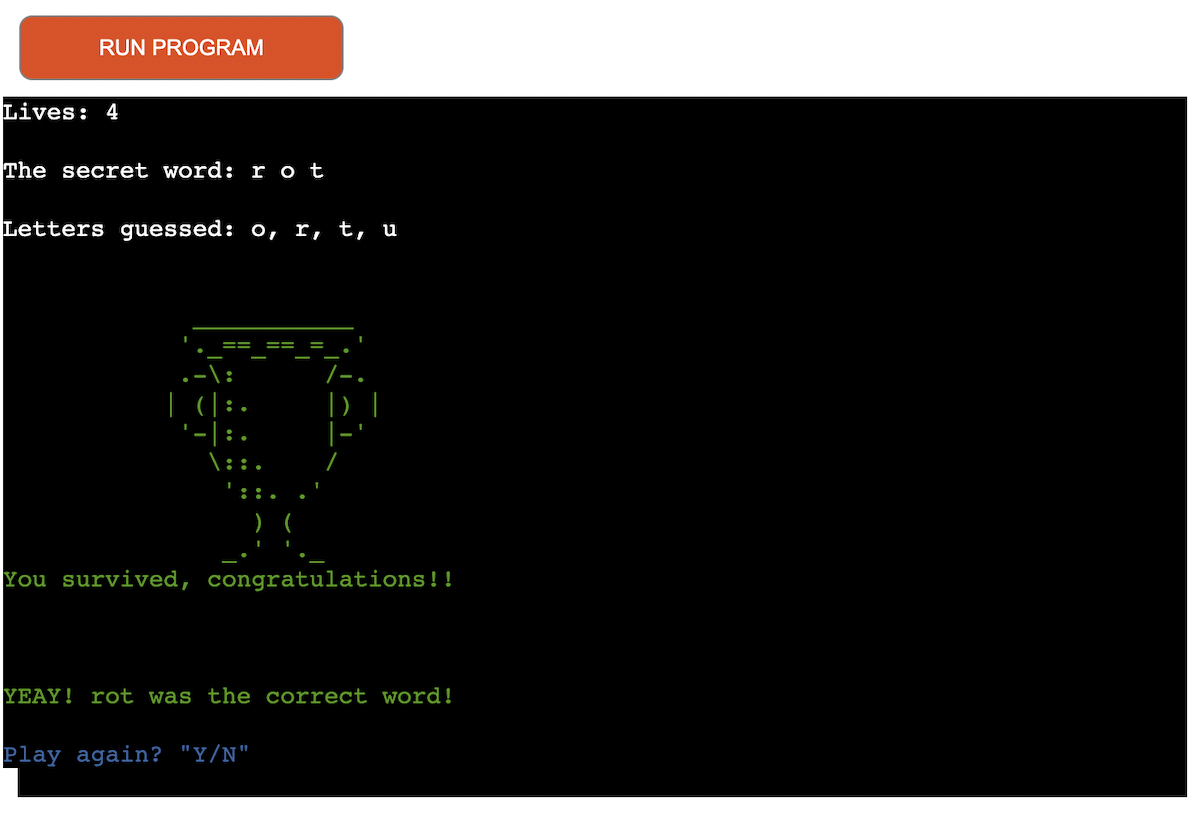
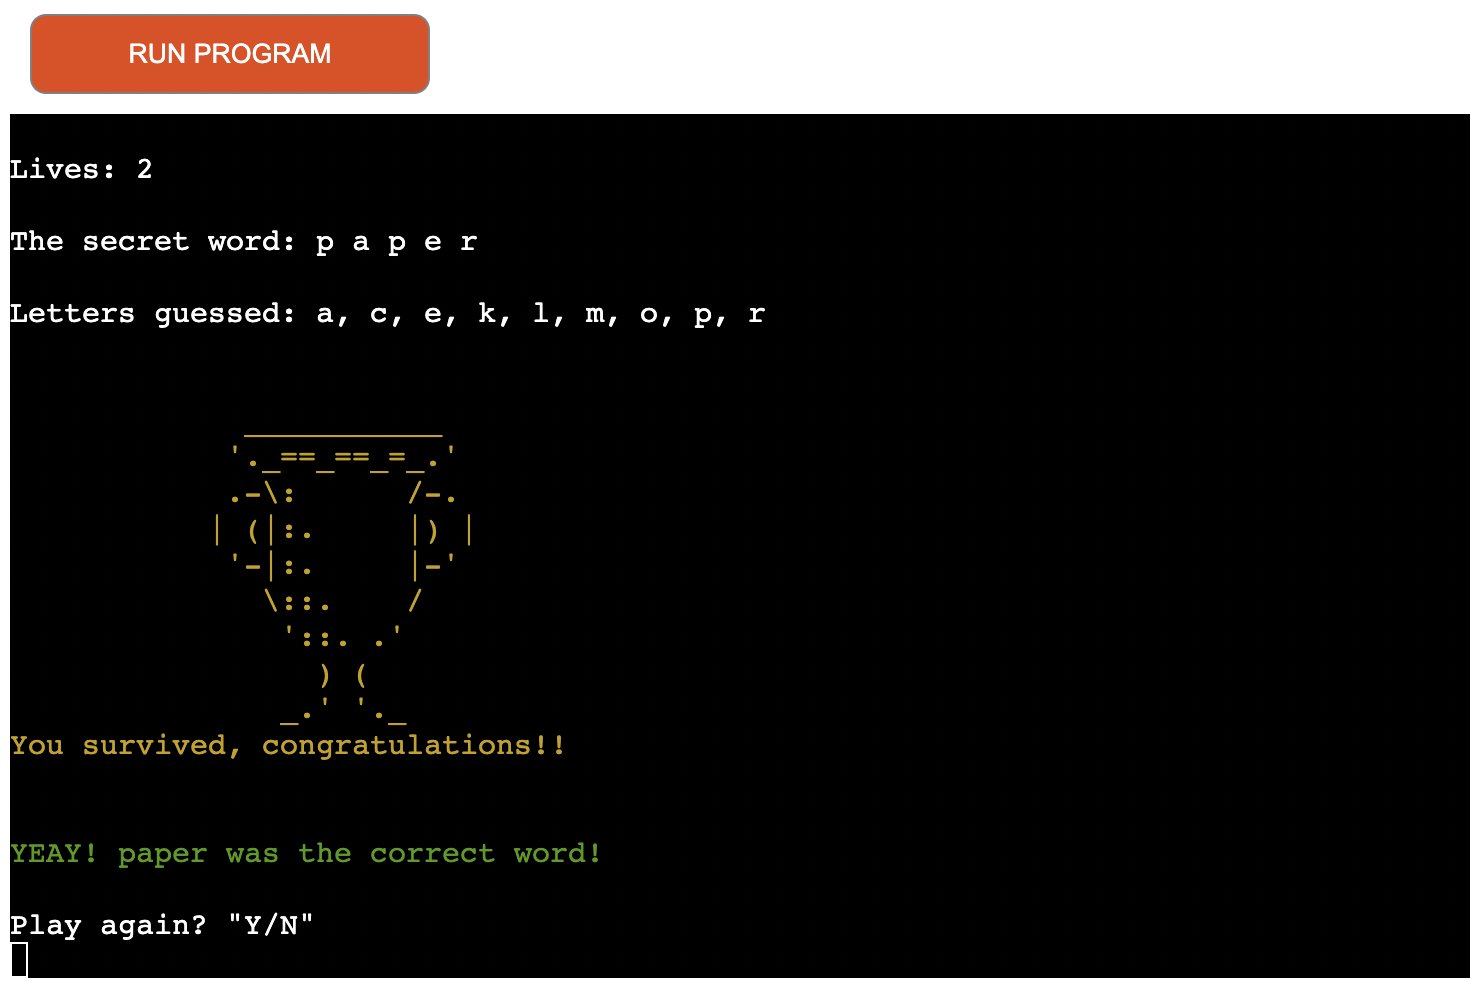
Import image to images folder and add a new image in Yoy won section in README.md file

Changed region(s): [[0.0, 0.0, 1.0, 1.0], [0.1544, 0.3993, 0.3088, 0.645]]

diff --git a/README.md b/README.md
@@ -82,7 +82,7 @@ The logo was generated using the Ascii graffiti generator [PatorJK.](https://pat
 
 ![Not a letter](assets/images/not_a_letter.png)
 
-- The player wins when the right letters has been guessed and secret word is being shown. A congratulation logo and text in green will appeare. The user gets the option to enter Y or N to restart the Game. 
+- The player wins when the right letters has been guessed and secret word is being shown. A congratulation logo with text in yellow together with text in green informing the player what the right word was will appeare. The user gets the option to enter Y or N to restart the Game. 
 
 ![You won](assets/images/congrats.png)
 
